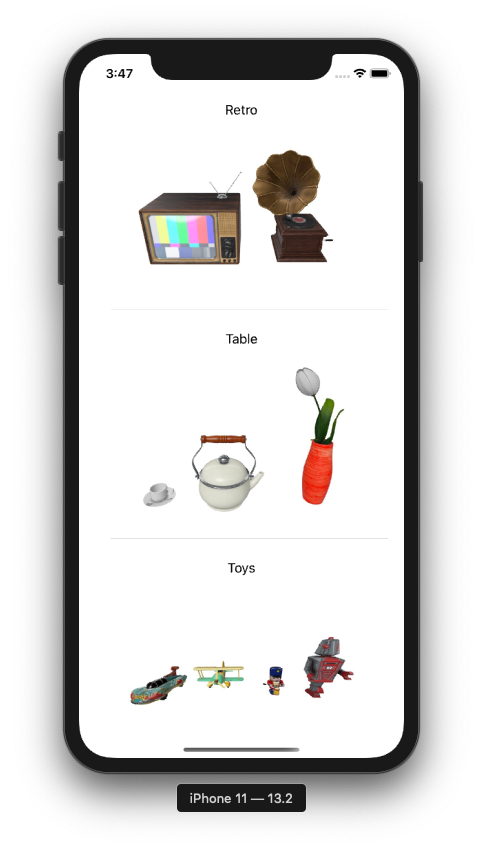
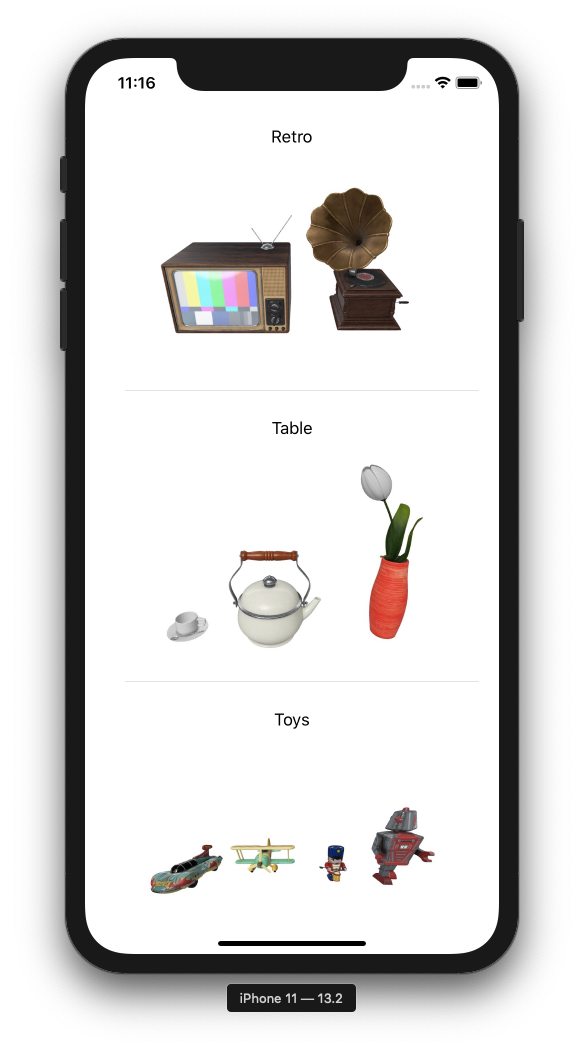
Fixed rotating animation

diff --git a/ARQuickLook/View Controllers/ViewController.swift b/ARQuickLook/View Controllers/ViewController.swift
@@ -98,11 +98,10 @@ extension ViewController: UITableViewDataSource {
 extension ViewController: UITableViewDelegate {
     func tableView(_ tableView: UITableView, didSelectRowAt indexPath: IndexPath) {
         // Rotate the cell
-        if let cell = tableView.cellForRow(at: indexPath) as? USDZCell {
-            UIView.animate(withDuration: 0.5, delay: 0, options: [.autoreverse, .repeat], animations: {
-                cell.previewImageView.transform3D = CATransform3DMakeRotation(.pi, 0, 1, 0)
-            })
-        }
+        let cell = tableView.cellForRow(at: indexPath) as? USDZCell
+        UIView.animate(withDuration: 0.5, delay: 0, options: [.autoreverse, .repeat], animations: {
+            cell?.previewImageView.transform3D = CATransform3DMakeRotation(.pi, 0, 1, 0)
+        })
         
         // Prepare the quick look controller
         let previewController = QLPreviewController()
@@ -111,6 +110,10 @@ extension ViewController: UITableViewDelegate {
         
         // Present quick look modally
         present(previewController, animated: true) {
+            // Cancel cell rotation
+            UIView.modifyAnimations(withRepeatCount: 0, autoreverses: false) {
+                cell?.previewImageView.transform3D = CATransform3DIdentity
+            }
             tableView.deselectRow(at: indexPath, animated: true)
         }
     }

diff --git a/README.md b/README.md
@@ -4,8 +4,10 @@ List and view animated 3D models.
 
 Move, rotate and scale using touch gestures.
 
-![Simulator Screenshot](https://github.com/dbystruev/ARQuickLook/blob/master/ARQuickLook/Resources/Screenshots/1.png?raw=true)
+![List of models](https://github.com/dbystruev/ARQuickLook/blob/master/ARQuickLook/Resources/Screenshots/1.png?raw=true)
 
-![AR Screenshot](https://github.com/dbystruev/ARQuickLook/blob/master/ARQuickLook/Resources/Screenshots/2.png?raw=true)
+![AR Floor](https://github.com/dbystruev/ARQuickLook/blob/master/ARQuickLook/Resources/Screenshots/2.png?raw=true)
+
+![AR Toys](https://github.com/dbystruev/ARQuickLook/blob/master/ARQuickLook/Resources/Screenshots/3.png?raw=true)
 
 3D Models courtesy of Apple USDZ [gallery](https://developer.apple.com/augmented-reality/quick-look).
